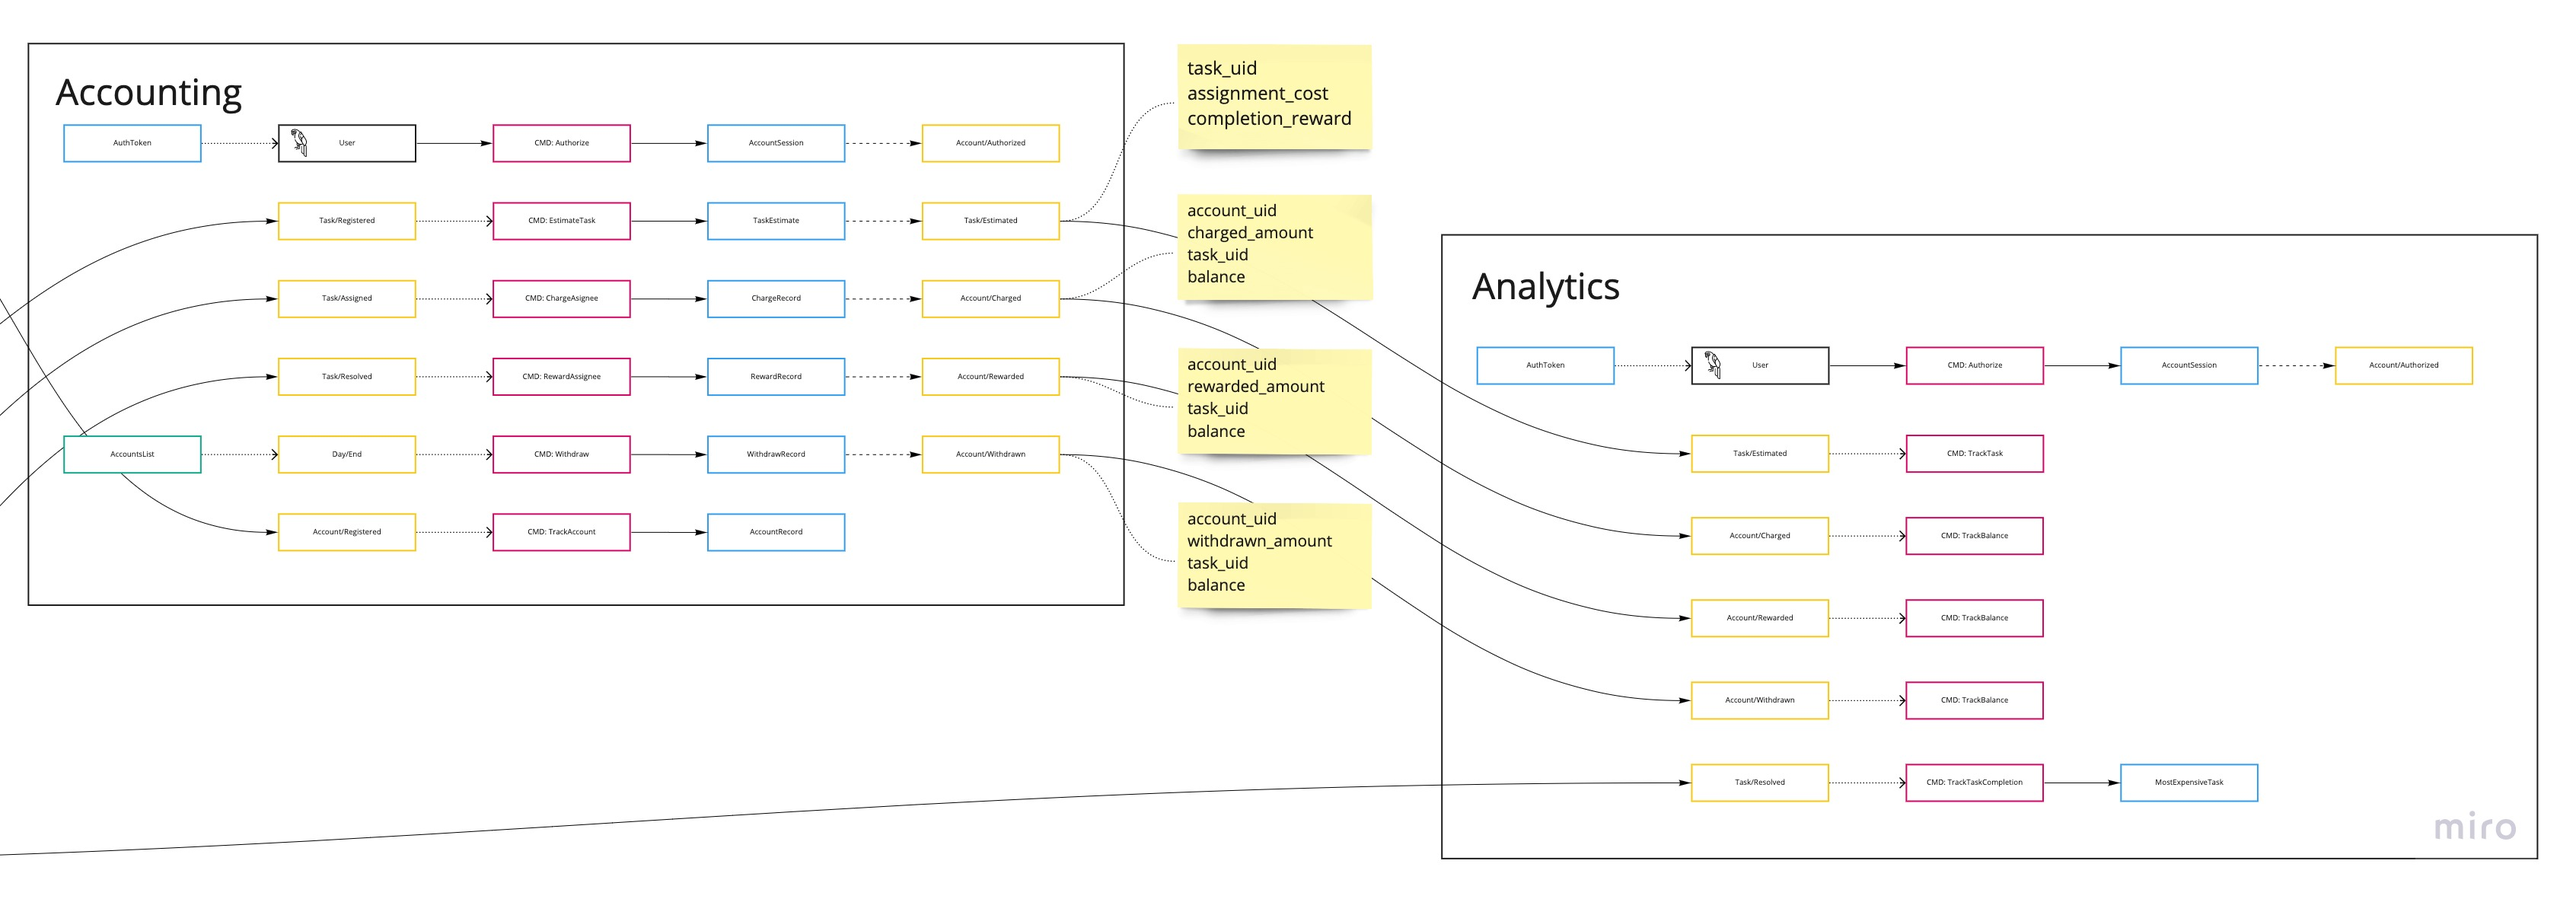
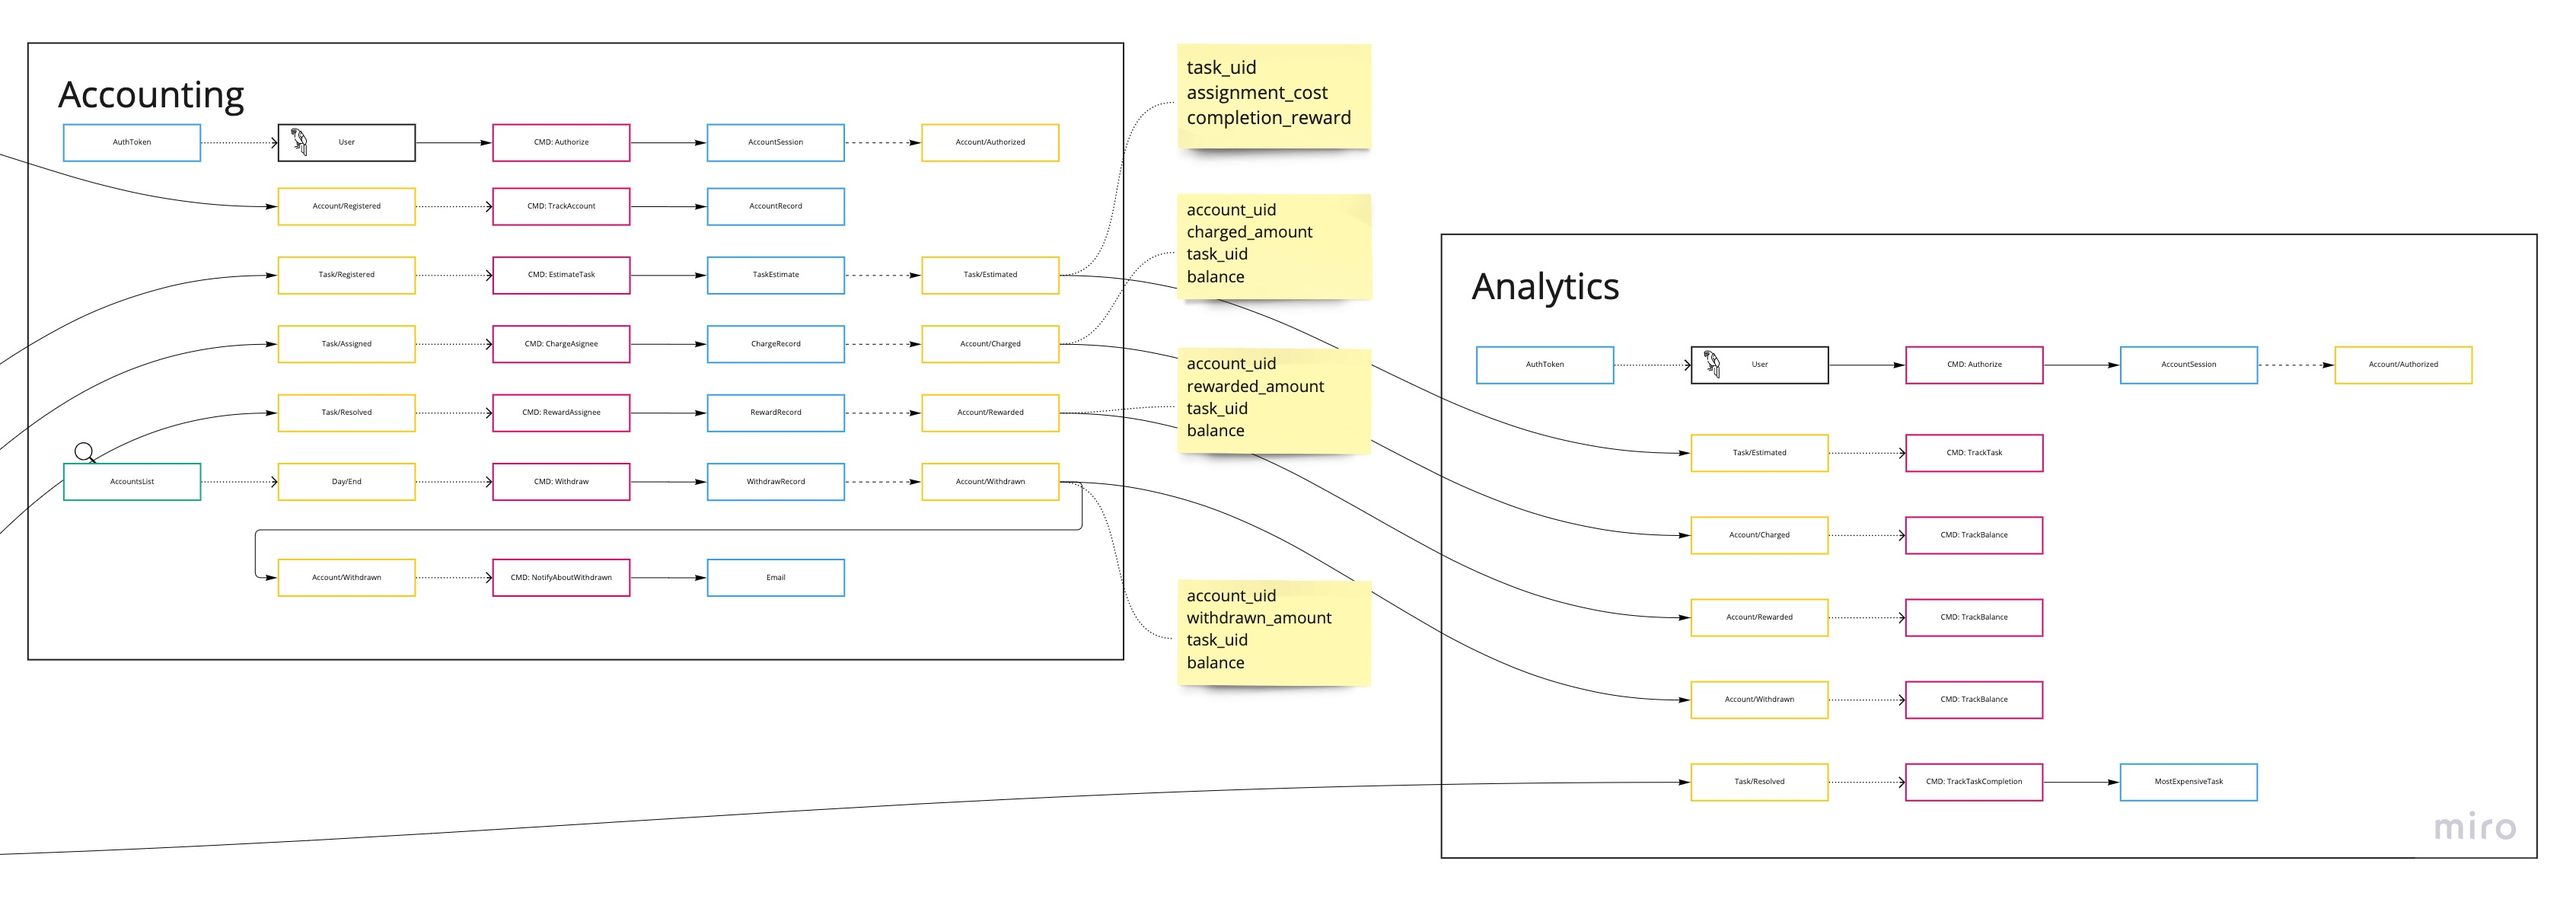
W1 diagrams and references

diff --git a/week-1/README.md b/week-1/README.md
@@ -4,6 +4,16 @@
 
 ![](EventsFlow.jpg)
 
+Я выделил четыре сервиса:
+
+1. Accounts - управление аккаунтами и их аутентификацией
+2. TaskTracker - управление задачами
+3. Accounting - бухгалтерия
+4. Analytics - аналитика
+
+Все взаимодействия между сервисами асинхронные, через event log.
+
+
 ## Accounts and Tasks
 
 ![](EventsFlow-AccountsAndTasks.jpg)
@@ -12,6 +22,9 @@
 
 ![](EventsFlow-AccountingAndAnalytics.jpg)
 
-## Domains and Models
+## Модель данных и доменов
 
 ![](Domains_Models.jpg)
+
+Общими данными в системе являются модели `Account` и `Task`. В связанных сервисах
+они должны синхронизироваться через подписку на CUD события для этих моделей.
